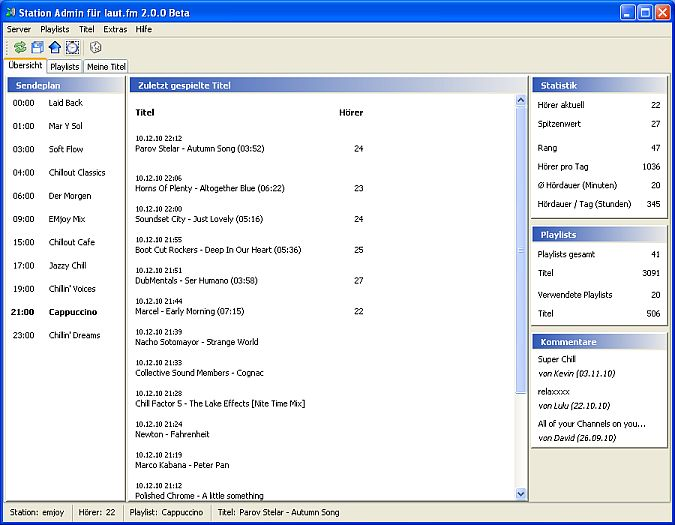
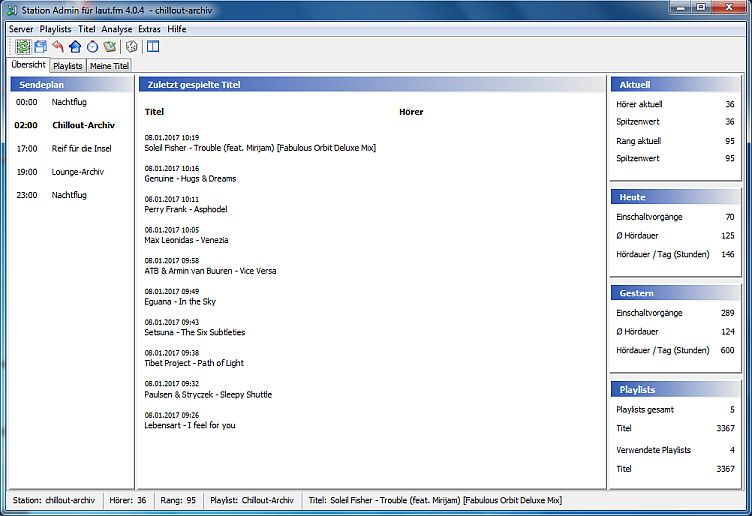
Documentation update

Changed region(s): [[0.0, 0.0, 1.0, 1.0], [0.5289, 0.4651, 0.56, 0.4961], [0.5289, 0.3411, 0.56, 0.3721]]

diff --git a/doc/userguide/uebersicht.html b/doc/userguide/uebersicht.html
@@ -13,9 +13,8 @@ Auf dem <span class="menuref">&Uuml;bersicht</span>-Tab bekommst Du einen &Uuml;
 <ul>
 <li>Links steht der Sendeplan f&uuml;r den aktuellen Tag. Durch Klick auf eine Sendung kannst Du zu der entsprechenden Playlist springen.
 <li>In der Mitte stehen die zuletzt gespielten Titel. F&uuml;r Titel die nach dem Programmstart gespielt wurden steht neben dem Titel die H&ouml;rerzahl zum Zeitpunkt des Titelstarts. 
-<li>Rechts oben siehst Du die wichtigsten Statistiken zu Deiner Station wie H&ouml;rerzahl, durchschnittliche H&ouml;rdauer etc.
+<li>Rechts oben und in der Mitte siehst Du die wichtigsten Statistiken zu Deiner Station wie H&ouml;rerzahl, durchschnittliche H&ouml;rdauer etc.
 <li>Darunter befinden sich einige statistische Informationen &uuml;ber Deine Playlists und verwendete Titel.
-<li>Rechts unten siehst Du die letzten 3 Kommentare zu Deiner Station. Die Kommentare werden mit Titel, Autor und Datum dargestellt. Den kompletten Text siehst Du als Tooltip wenn Du mit der Maus &uuml;ber einem Eintrag stehen bleibst.
 </ul>
 </p>
 